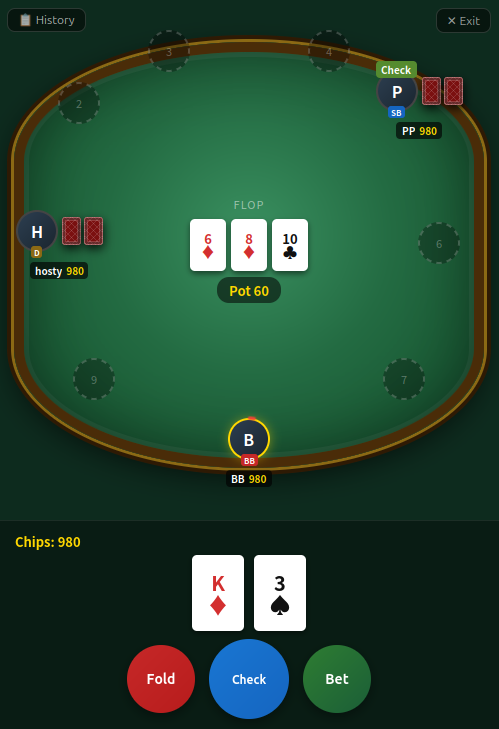
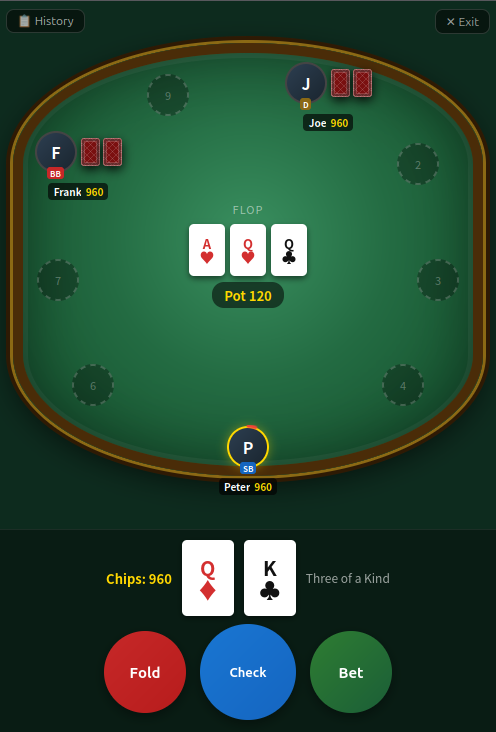
Fix hand evaluator, real-time hand name display, and UI enhancements

diff --git a/public/index.html b/public/index.html
@@ -222,11 +222,11 @@ input[type=text]::placeholder{color:rgba(255,255,255,.3)}
   border-top:1px solid rgba(255,255,255,.08);
   position:relative
 }
-#my-area{display:flex;flex-direction:column;align-items:center;gap:4px;width:100%}
-#my-info-row{display:flex;justify-content:space-between;width:100%;padding:0 4px}
-#my-chips{font-size:13px;color:#FFD700;font-weight:700}
-#my-hand-name{font-size:12px;color:rgba(255,255,255,.6)}
-#my-cards-row{display:flex;gap:10px;min-height:76px;align-items:center}
+#my-area{display:flex;flex-direction:row;align-items:center;justify-content:center;gap:10px;width:100%}
+#my-info-row{display:none}
+#my-chips{font-size:13px;color:#FFD700;font-weight:700;flex-shrink:0;min-width:60px;text-align:right}
+#my-hand-name{font-size:12px;color:rgba(255,255,255,.6);flex-shrink:0;min-width:60px;text-align:left}
+#my-cards-row{display:flex;gap:10px;min-height:76px;align-items:center;flex-shrink:0}
 #action-row{display:flex;align-items:center;justify-content:center;gap:14px;width:100%}
 .action-btn{
   border:none;border-radius:50%;cursor:pointer;
@@ -236,26 +236,33 @@ input[type=text]::placeholder{color:rgba(255,255,255,.3)}
 }
 .action-btn:active{transform:scale(.94)}
 .action-btn:disabled{opacity:.25;pointer-events:none}
-#btn-fold{width:68px;height:68px;background:linear-gradient(135deg,#c62828,#b71c1c);font-size:14px}
-#btn-check-call{width:80px;height:80px;background:linear-gradient(135deg,#1976D2,#1565C0);font-size:12px;text-align:center}
-#btn-raise{width:68px;height:68px;background:linear-gradient(135deg,#2e7d32,#1b5e37);font-size:14px}
+#btn-fold{width:82px;height:82px;background:linear-gradient(135deg,#c62828,#b71c1c);font-size:15px}
+#btn-check-call{width:96px;height:96px;background:linear-gradient(135deg,#1976D2,#1565C0);font-size:13px;text-align:center}
+#btn-raise{width:82px;height:82px;background:linear-gradient(135deg,#2e7d32,#1b5e37);font-size:15px}
 #raise-panel{
-  width:100%;height:80px;box-sizing:border-box;
+  width:100%;height:96px;box-sizing:border-box;
   background:rgba(0,0,0,.4);border-radius:14px;
   padding:8px 12px;display:flex;flex-direction:row;gap:12px;align-items:center;
   overflow:hidden
 }
-#raise-left{display:flex;flex-direction:column;gap:8px;flex:1;min-width:0}
-#raise-amount-display{text-align:center;font-size:28px;font-weight:800;color:#FFD700}
+#raise-left{display:flex;flex-direction:column;gap:4px;flex:1;min-width:0;align-self:flex-start;padding-top:3px}
+#raise-amount-display{text-align:center;font-size:20px;font-weight:800;color:#FFD700}
 #raise-slider{
-  width:100%;height:4px;-webkit-appearance:none;appearance:none;
+  width:78%;margin:0 auto;margin-bottom:10px;display:block;height:4px;-webkit-appearance:none;appearance:none;
   background:#333;border-radius:2px;outline:none;cursor:pointer
 }
 #raise-slider::-webkit-slider-thumb{
-  -webkit-appearance:none;width:22px;height:22px;
+  -webkit-appearance:none;width:20px;height:20px;
   border-radius:50%;background:#4CAF50;cursor:pointer;
   box-shadow:0 2px 6px rgba(0,0,0,.4)
 }
+#raise-step-btns{display:flex;gap:6px;justify-content:center}
+.raise-step-btn{
+  padding:3px 13px;background:rgba(255,255,255,.1);
+  border:1px solid rgba(255,255,255,.2);border-radius:7px;
+  color:#fff;font-size:12px;font-weight:700;cursor:pointer
+}
+.raise-step-btn:active{background:rgba(255,255,255,.25)}
 #raise-right{display:flex;flex-direction:column;gap:6px;align-items:stretch}
 .raise-presets{display:flex;gap:5px;justify-content:center}
 .preset-btn{
@@ -747,11 +754,9 @@ input[type=text]::placeholder{color:rgba(255,255,255,.3)}
   <div id="pending-end-notice" data-i18n="pending_end">Host has requested to end the game — settling after this hand</div>
   <div id="bottom-panel">
     <div id="my-area">
-      <div id="my-info-row">
-        <div id="my-chips"></div>
-        <div id="my-hand-name"></div>
-      </div>
+      <div id="my-chips"></div>
       <div id="my-cards-row"></div>
+      <div id="my-hand-name"></div>
     </div>
     <div id="action-row">
       <button class="action-btn" id="btn-fold" disabled data-i18n="btn_fold">Fold</button>
@@ -762,6 +767,10 @@ input[type=text]::placeholder{color:rgba(255,255,255,.3)}
       <div id="raise-left">
         <div id="raise-amount-display">0</div>
         <input type="range" id="raise-slider" min="0" max="100" value="0">
+        <div id="raise-step-btns">
+          <button class="raise-step-btn" id="btn-raise-minus">-100</button>
+          <button class="raise-step-btn" id="btn-raise-plus">+100</button>
+        </div>
       </div>
       <div id="raise-right">
         <div class="raise-presets">
@@ -2111,6 +2120,20 @@ document.getElementById('btn-raise').addEventListener('click', () => {
 
 document.getElementById('raise-slider').addEventListener('input', function() {
   document.getElementById('raise-amount-display').textContent = this.value;
+});
+
+document.getElementById('btn-raise-minus').addEventListener('click', () => {
+  const s = document.getElementById('raise-slider');
+  const val = Math.max(parseInt(s.min), parseInt(s.value) - 100);
+  s.value = val;
+  document.getElementById('raise-amount-display').textContent = val;
+});
+
+document.getElementById('btn-raise-plus').addEventListener('click', () => {
+  const s = document.getElementById('raise-slider');
+  const val = Math.min(parseInt(s.max), parseInt(s.value) + 100);
+  s.value = val;
+  document.getElementById('raise-amount-display').textContent = val;
 });
 
 document.querySelectorAll('.preset-btn').forEach(btn => {

diff --git a/game/HandEvaluator.js b/game/HandEvaluator.js
@@ -65,22 +65,23 @@ function compareEvals(a, b) {
 }
 
 function bestHand(cards) {
-  // cards: 5-7 cards, find best 5-card hand
-  if (cards.length === 5) {
+  // cards: 5-7 cards, find best 5-card hand by trying all C(n,5) combinations
+  const n = cards.length;
+  if (n === 5) {
     const ev = evaluateFive(cards);
     return { eval: ev, name: HAND_NAMES[ev[0]], cards };
   }
   let best = null;
-  const n = cards.length;
-  for (let i = 0; i < n - 1; i++) {
-    for (let j = i + 1; j < n; j++) {
-      const five = cards.filter((_, idx) => idx !== i && idx !== j);
-      const ev = evaluateFive(five);
-      if (!best || compareEvals(ev, best.eval) > 0) {
-        best = { eval: ev, name: HAND_NAMES[ev[0]], cards: five };
-      }
-    }
-  }
+  for (let i = 0; i < n - 4; i++)
+    for (let j = i + 1; j < n - 3; j++)
+      for (let k = j + 1; k < n - 2; k++)
+        for (let l = k + 1; l < n - 1; l++)
+          for (let m = l + 1; m < n; m++) {
+            const five = [cards[i], cards[j], cards[k], cards[l], cards[m]];
+            const ev = evaluateFive(five);
+            if (!best || compareEvals(ev, best.eval) > 0)
+              best = { eval: ev, name: HAND_NAMES[ev[0]], cards: five };
+          }
   return best;
 }
 

diff --git a/game/PokerGame.js b/game/PokerGame.js
@@ -950,7 +950,12 @@ class PokerGame {
         ...(() => {
           const reveal = p.id === playerId || this.revealAll || !!p.showedCards;
           const holeCards = reveal ? p.holeCards : p.holeCards.map(() => null);
-          if (reveal && isShowdown && !p.folded && p.holeCards.length > 0) {
+          // Show hand name: for own cards from flop onwards; for others only at real showdown
+          const showHandName = !p.folded && p.holeCards.length > 0 && (
+            (p.id === playerId && this.communityCards.length >= 3) ||
+            (isShowdown && this.revealAll)
+          );
+          if (reveal && showHandName) {
             const h = bestHand([...p.holeCards, ...this.communityCards]);
             return { holeCards, handName: h.name, bestCards: h.cards };
           }
